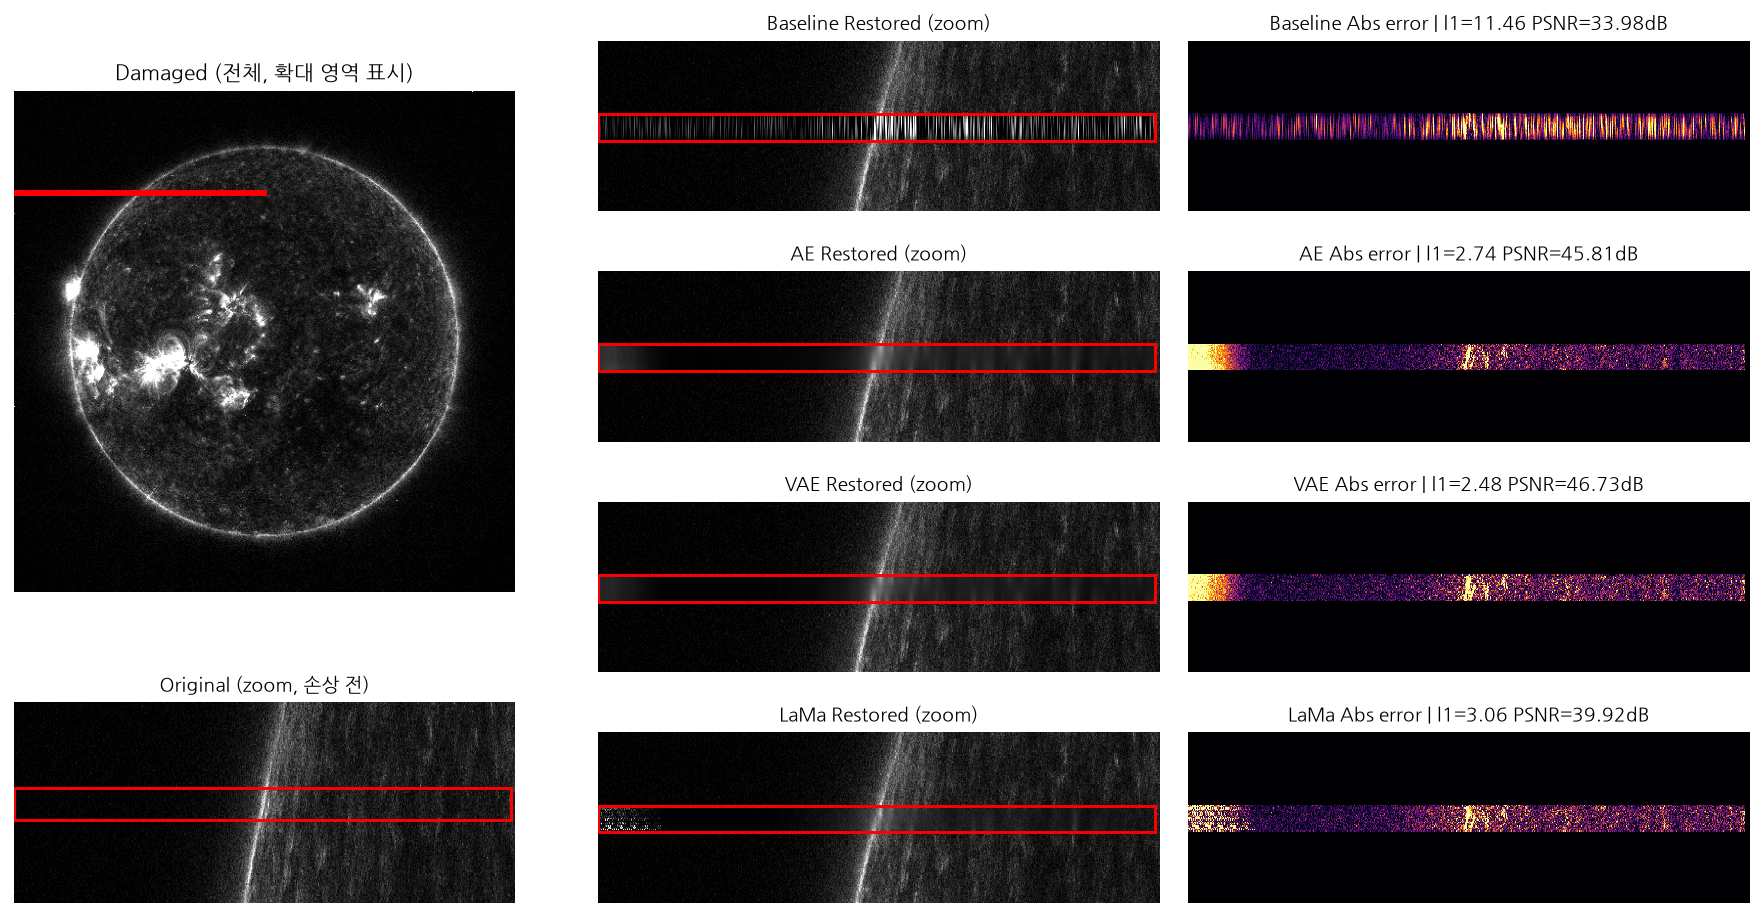
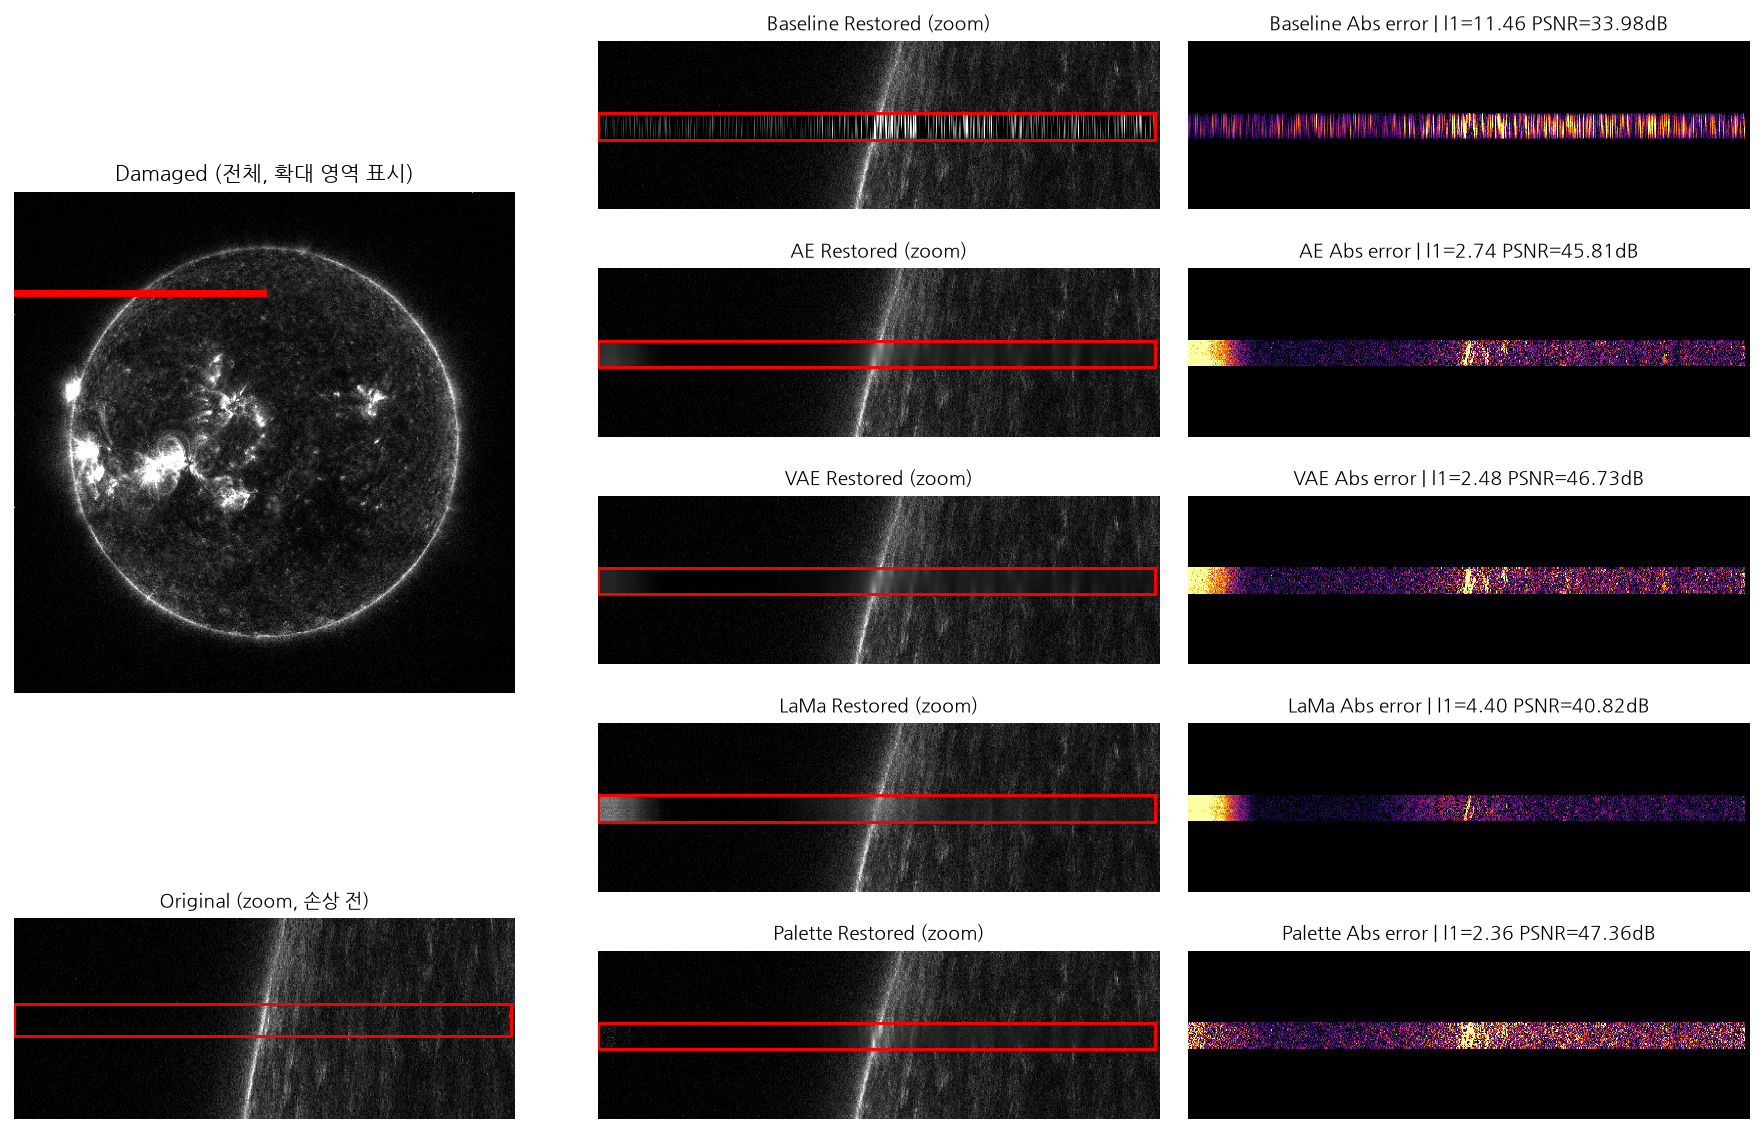
fix: MISS0 비교 이미지에 Palette 행 반영, case1 재생성

diff --git a/sun_miss0_recov/make_comparison_miss0.py b/sun_miss0_recov/make_comparison_miss0.py
@@ -31,7 +31,7 @@ if os.path.exists(NANUM_PATH):
 plt.rcParams["axes.unicode_minus"] = False
 
 ROOT_DIR = os.path.dirname(os.path.abspath(__file__))
-OUT_PATH = os.path.join(ROOT_DIR, "verify_out", "comparison_miss0_seed7.png")
+OUT_PATH = os.path.join(ROOT_DIR, "verify_out", "comparison_miss0_seed0.png")
 os.makedirs(os.path.dirname(OUT_PATH), exist_ok=True)
 
 LAMA_REPO_PATH = "/path/to/lama"
@@ -113,7 +113,7 @@ def main():
     LAMA_CKPT = os.path.join(ROOT_DIR, "lama", "runs", "ckpt_ep160.pt")  # 실제 최신 파일명 확인 후 조정
     PALETTE_CKPT = os.path.join(ROOT_DIR, "palette", "runs", "ckpt_ep50.pt")  # 실제 최신 파일명 확인 후 조정
 
-    seed = 7
+    seed = 0
     val_df = pd.read_csv(VAL_CSV).sample(n=200, random_state=seed).reset_index(drop=True)
     row = val_df.iloc[0]
     img = np.load(row["cache_path"])
